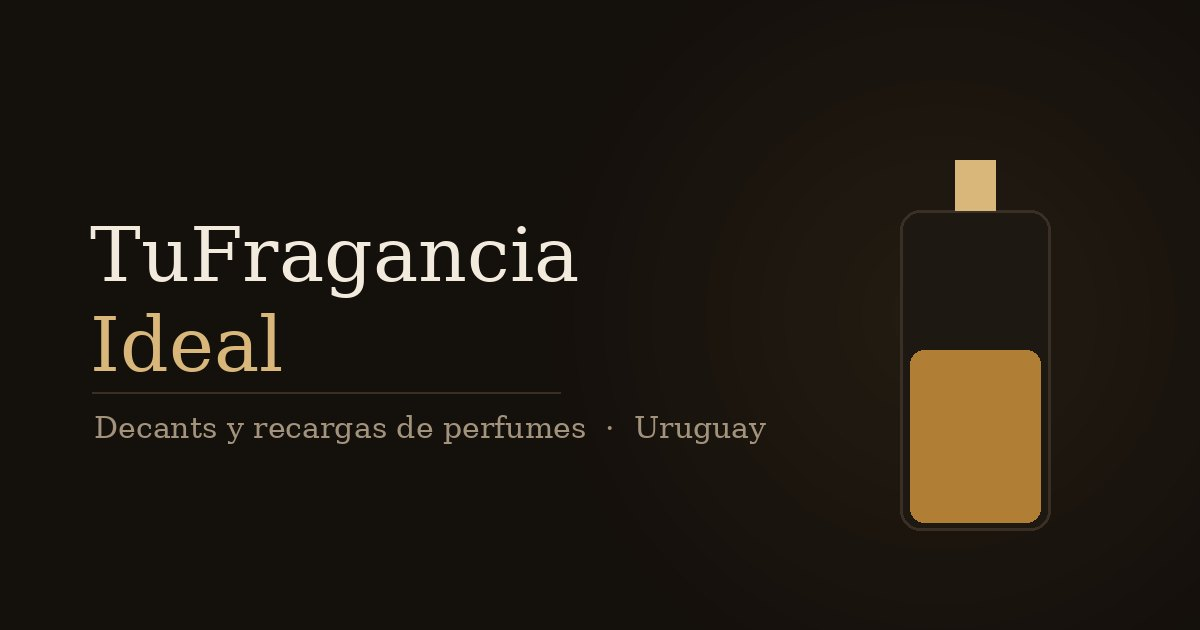
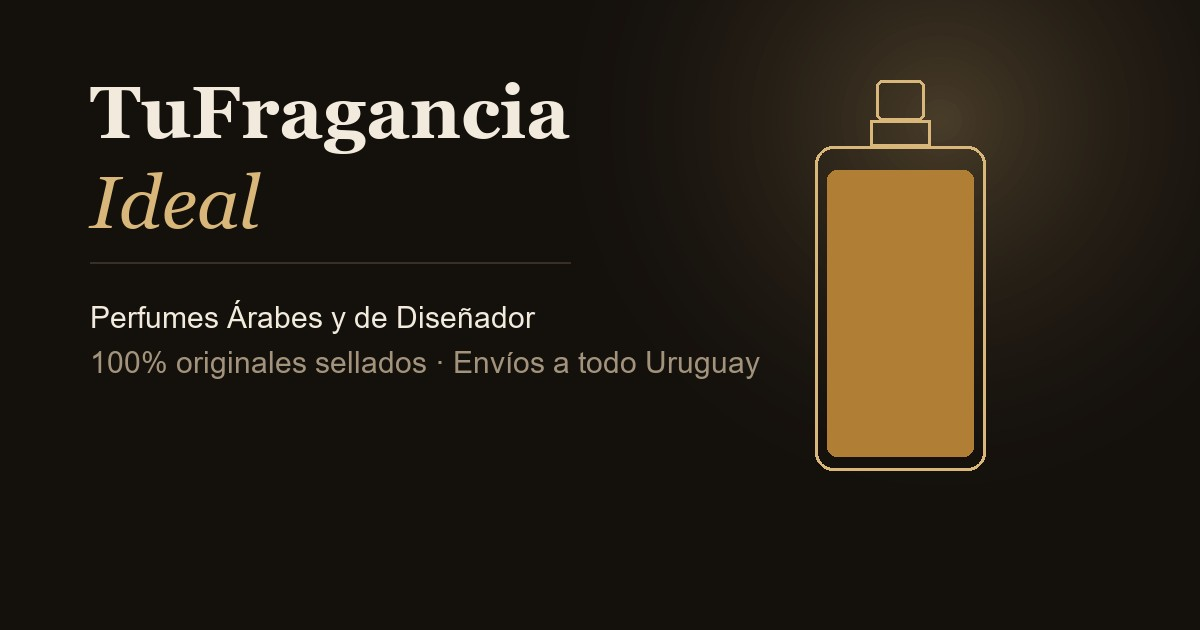
Mejora: SEO OpenGraph y Botones de alta conversión

diff --git a/src/app/layout.tsx b/src/app/layout.tsx
@@ -20,13 +20,27 @@ const archivo = Archivo({
   variable: "--font-archivo",
 });
 
+// Título y descripción para compartir (WhatsApp, redes): literales acá,
+// a propósito, sin pasar por `site.descripcion` — ese texto lo usan otras
+// páginas (JSON-LD, /catalogo) y no lo tocamos con este cambio puntual.
+const TITULO_COMPARTIR =
+  "TuFragancia Ideal | Perfumes Árabes y de Diseñador en Uruguay";
+const DESCRIPCION_COMPARTIR =
+  "Descubre nuestra selección de perfumes 100% originales. Envíos a todo el país.";
+
 export const metadata: Metadata = {
-  metadataBase: new URL(site.url),
+  // ⚠ Apunta al dominio de Vercel, no a `site.url` (tufraganciaideal.uy):
+  // así pedido explícitamente, para que las previsualizaciones de WhatsApp
+  // funcionen ya mismo contra lo que está realmente publicado. El resto de
+  // las URLs absolutas del sitio (JSON-LD, sitemap, canonical de /catalogo,
+  // vuelta de Mercado Pago) siguen usando `site.url` — cuando el dominio
+  // .uy esté realmente en línea, conviene unificar todo a ese.
+  metadataBase: new URL("https://tufraganciaideal-self.vercel.app"),
   title: {
-    default: "Perfumes originales en Uruguay | TuFraganciaIdeal",
+    default: TITULO_COMPARTIR,
     template: "%s | TuFraganciaIdeal",
   },
-  description: site.descripcion,
+  description: DESCRIPCION_COMPARTIR,
   keywords: [
     "perfumes originales Uruguay",
     "comprar perfumes online Uruguay",
@@ -42,15 +56,15 @@ export const metadata: Metadata = {
     locale: "es_UY",
     url: site.url,
     siteName: site.nombre,
-    title: "Perfumes originales sellados, con envío a todo Uruguay",
-    description: site.descripcion,
+    title: TITULO_COMPARTIR,
+    description: DESCRIPCION_COMPARTIR,
     // 📸 Subí una imagen 1200×630 a /public/og.jpg (frasco + logo sobre fondo oscuro).
     images: [{ url: "/og.jpg", width: 1200, height: 630, alt: site.nombre }],
   },
   twitter: {
     card: "summary_large_image",
-    title: "Perfumes originales sellados, con envío a todo Uruguay",
-    description: site.descripcion,
+    title: TITULO_COMPARTIR,
+    description: DESCRIPCION_COMPARTIR,
     images: ["/og.jpg"],
   },
   robots: { index: true, follow: true },

diff --git a/src/components/TarjetaProducto.tsx b/src/components/TarjetaProducto.tsx
@@ -161,10 +161,10 @@ export default function TarjetaProducto({
             disabled={!disponible || sinMasStock}
             onClick={manejarAgregar}
             whileTap={disponible && !sinMasStock ? { scale: 0.95 } : undefined}
-            className={`mt-4 w-full overflow-hidden rounded-full border py-3 text-sm transition-all duration-200 hover:-translate-y-0.5 hover:shadow-[0_8px_24px_-8px_var(--color-oro-vivo)] disabled:cursor-not-allowed disabled:translate-y-0 disabled:border-borde disabled:text-arena disabled:shadow-none disabled:hover:bg-transparent ${
+            className={`mt-4 w-full overflow-hidden rounded-full border py-3 text-sm transition-all duration-200 hover:-translate-y-0.5 hover:shadow-[0_8px_24px_-8px_var(--color-oro-vivo)] disabled:cursor-not-allowed disabled:translate-y-0 disabled:border-borde disabled:bg-transparent disabled:text-arena disabled:shadow-none ${
               agregado
                 ? "border-vetiver bg-vetiver text-noche"
-                : "border-champan/50 text-champan hover:bg-champan hover:text-noche"
+                : "border-transparent bg-[#D4AF37] font-semibold text-black hover:bg-[#b5952f]"
             }`}
           >
             <AnimatePresence mode="wait" initial={false}>

diff --git a/scripts/gen_og_image.py b/scripts/gen_og_image.py
@@ -1,0 +1,97 @@
+#!/usr/bin/env python3
+"""
+Genera public/og.jpg (1200x630) para las previews de WhatsApp/redes.
+Paleta y tipografía aproximan la del sitio (Georgia en vez de Fraunces,
+que no está instalada localmente como .ttf). Reemplaza el og.jpg viejo,
+que todavía decía "Decants y recargas de perfumes" del negocio anterior.
+"""
+
+from PIL import Image, ImageDraw, ImageFont
+
+ANCHO, ALTO = 1200, 630
+
+NOCHE = (20, 16, 12)
+CARBON = (29, 23, 18)
+CHAMPAN = (217, 182, 121)
+ORO_CLARO = (235, 211, 163)
+MARFIL = (242, 234, 220)
+ARENA = (163, 147, 124)
+BORDE = (58, 47, 36)
+
+FUENTE_DIR = r"C:\Windows\Fonts"
+
+
+def fuente(nombre, tam):
+    return ImageFont.truetype(f"{FUENTE_DIR}\\{nombre}", tam)
+
+
+def resplandor(img, centro, radio, color, intensidad_max=90):
+    """Círculo radial suave, simulando el blur de fondo del sitio."""
+    capa = Image.new("RGBA", img.size, (0, 0, 0, 0))
+    draw = ImageDraw.Draw(capa)
+    pasos = 60
+    for i in range(pasos, 0, -1):
+        r = int(radio * i / pasos)
+        alpha = int(intensidad_max * (1 - i / pasos) ** 2)
+        draw.ellipse(
+            [centro[0] - r, centro[1] - r, centro[0] + r, centro[1] + r],
+            fill=(*color, alpha),
+        )
+    img.paste(Image.alpha_composite(img.convert("RGBA"), capa).convert("RGB"), (0, 0))
+
+
+def main():
+    img = Image.new("RGB", (ANCHO, ALTO), NOCHE)
+    resplandor(img, (ANCHO - 260, 120), 420, CHAMPAN, intensidad_max=70)
+    draw = ImageDraw.Draw(img)
+
+    # Título
+    f_titulo = fuente("georgiab.ttf", 74)
+    f_ideal = fuente("georgiai.ttf", 74)
+    f_tag = fuente("arial.ttf", 30)
+    f_kicker = fuente("arialbd.ttf", 20)
+
+    x = 90
+    draw.text((x, 70), "TuFragancia", font=f_titulo, fill=MARFIL)
+    draw.text((x, 160), "Ideal", font=f_ideal, fill=CHAMPAN)
+
+    draw.line([(x, 262), (x + 480, 262)], fill=BORDE, width=2)
+
+    draw.text(
+        (x, 300),
+        "Perfumes Árabes y de Diseñador",
+        font=f_tag,
+        fill=MARFIL,
+    )
+    draw.text(
+        (x, 345),
+        "100% originales sellados · Envíos a todo Uruguay",
+        font=f_tag,
+        fill=ARENA,
+    )
+
+    # Frasco simplificado a la derecha (mismo motivo que Frasco.tsx, en plano).
+    fx, fy = 900, 140
+    fw, fh = 170, 330
+    draw.rounded_rectangle(
+        [fx - 24, fy - 60, fx + 24, fy - 20], radius=6, outline=CHAMPAN, width=3
+    )
+    draw.rectangle([fx - 30, fy - 20, fx + 30, fy + 6], outline=CHAMPAN, width=3)
+    draw.rounded_rectangle(
+        [fx - fw / 2, fy + 6, fx + fw / 2, fy + fh],
+        radius=18,
+        outline=CHAMPAN,
+        width=3,
+    )
+    draw.rounded_rectangle(
+        [fx - fw / 2 + 12, fy + 30, fx + fw / 2 - 12, fy + fh - 14],
+        radius=10,
+        fill=(176, 127, 53),
+    )
+
+    img.save(r"C:\Users\maxip\Downloads\tufraganciaideal\tufraganciaideal\public\og.jpg", "JPEG", quality=90)
+    print("public/og.jpg regenerado:", img.size)
+
+
+if __name__ == "__main__":
+    main()
